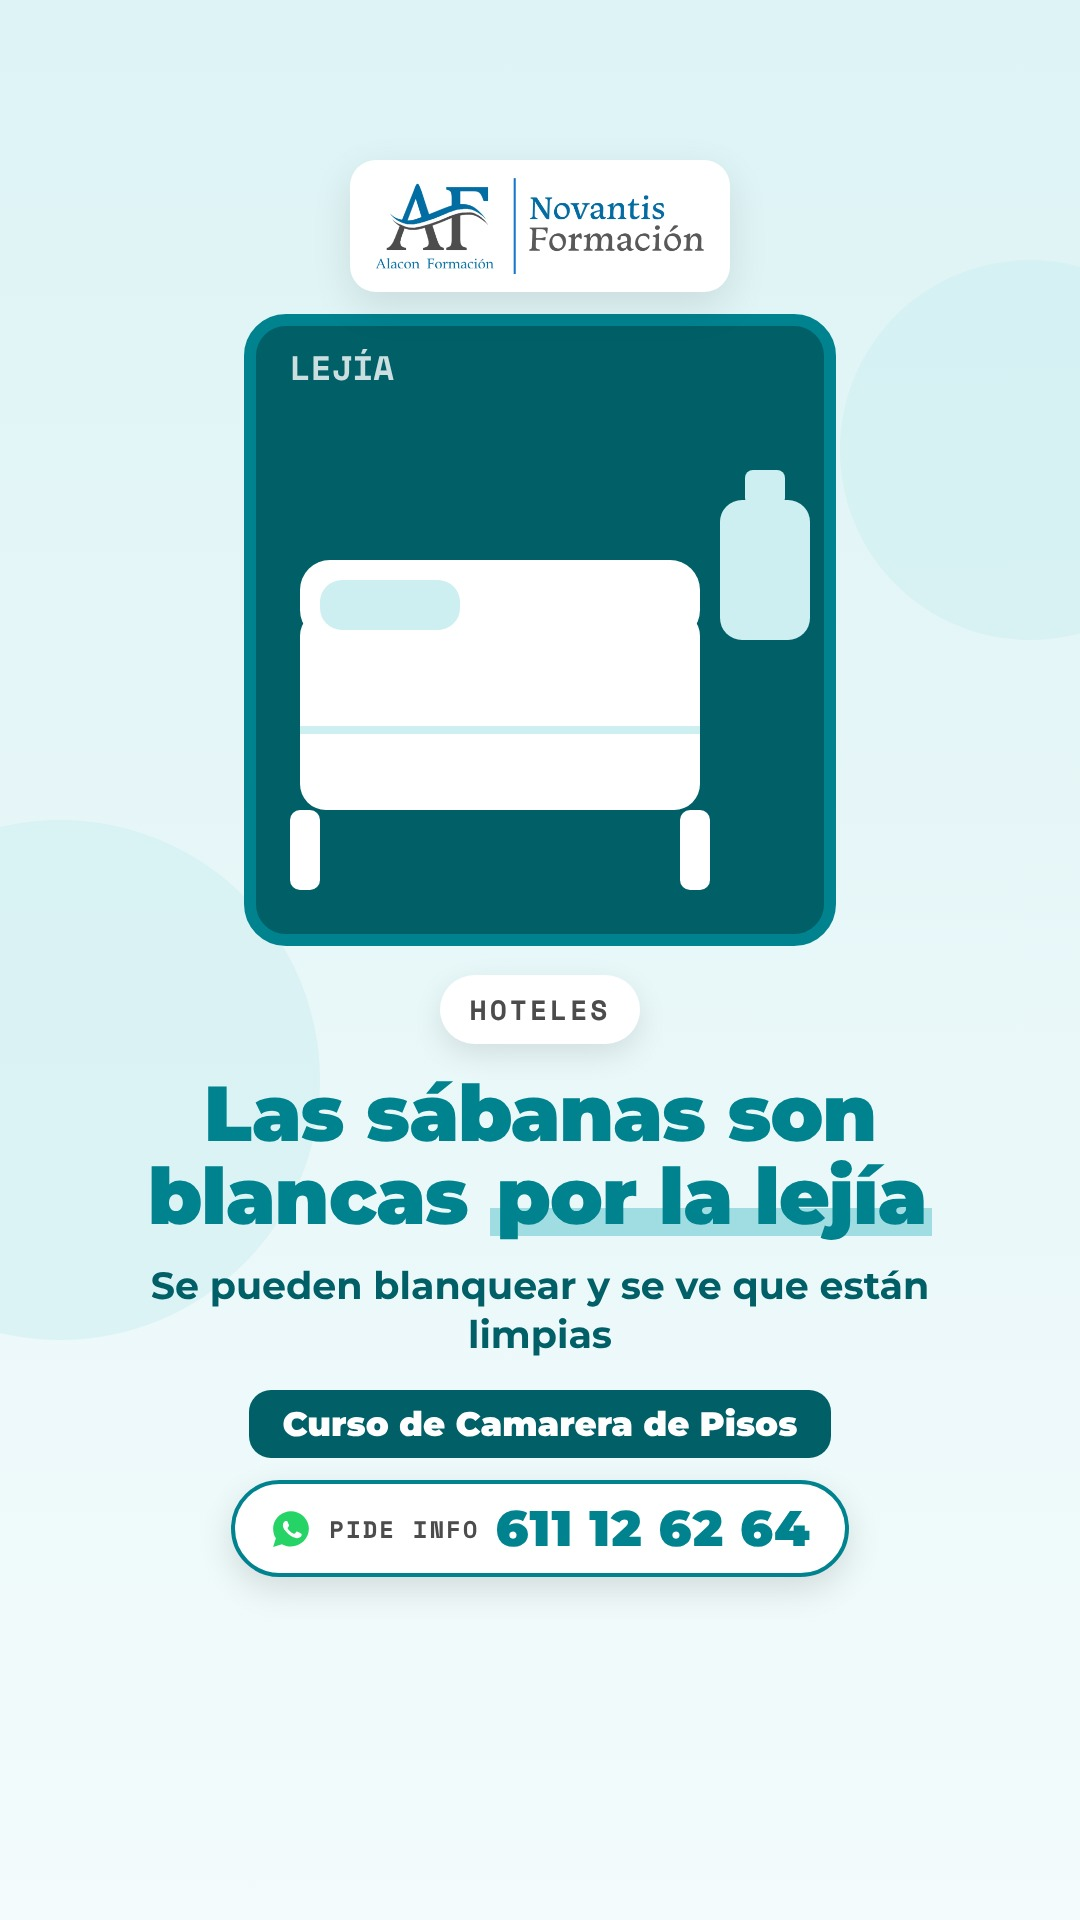
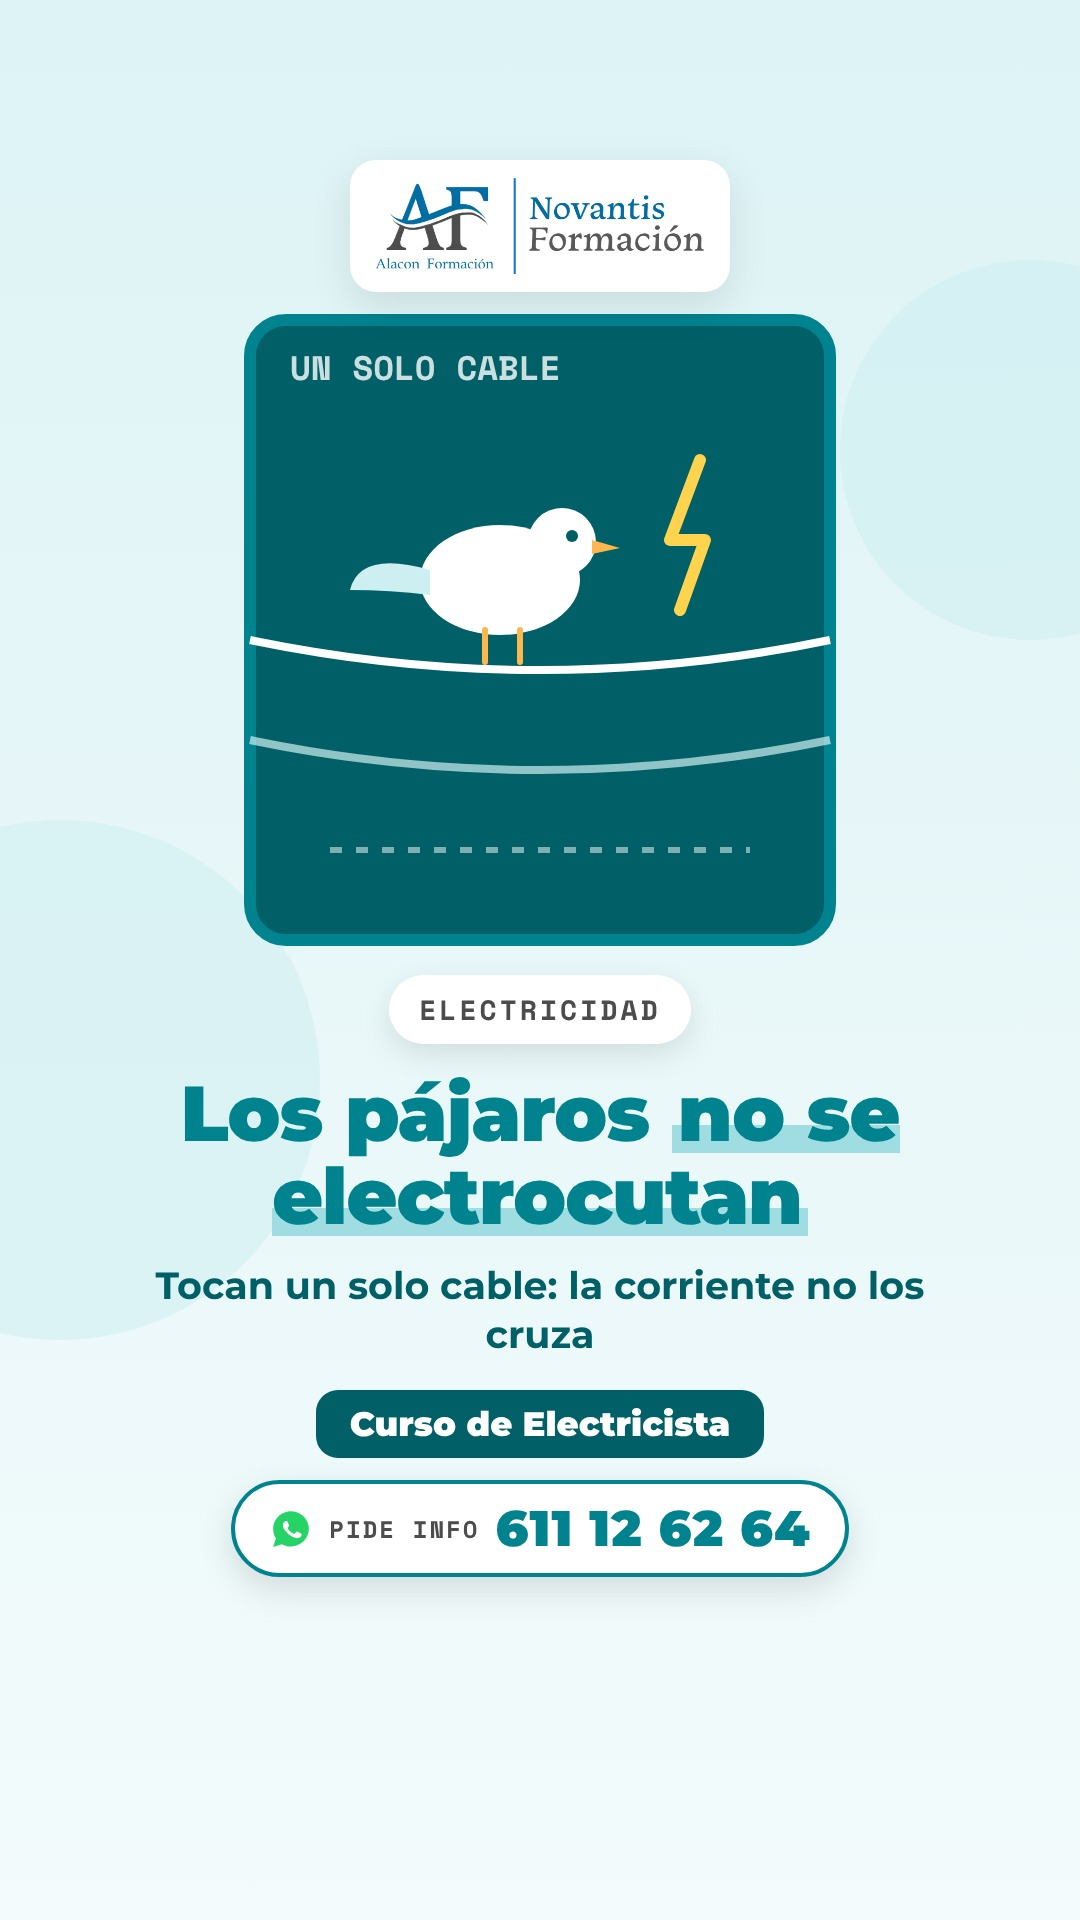
Electricidad, masaje y deporte en lugar de sábanas, conejos y silla; preferencias del usuario en ENCARGOS
Claude-Session: https://claude.ai/code/session_01SnWULSeimGG9wnx49MA5iz

diff --git a/disenos/semana-2026-11-16/2026-11-19-pajaros-cables.html b/disenos/semana-2026-11-16/2026-11-19-pajaros-cables.html
@@ -35,16 +35,18 @@ body { font-family: "Montserrat", sans-serif; color: #4C4C4C; position: relative
 <svg class="ilu" width="1080" height="640" viewBox="0 0 1080 640" aria-hidden="true"><rect x="250" y="10" width="580" height="620" rx="36" fill="#005F67"/>
 <rect x="250" y="10" width="580" height="620" rx="36" fill="none" stroke="#00838F" stroke-width="12"/>
 
-<rect x="300" y="300" width="400" height="200" rx="26" fill="#fff"/>
-<rect x="300" y="250" width="400" height="80" rx="30" fill="#fff"/>
-<rect x="320" y="270" width="140" height="50" rx="22" fill="#CDEFF1"/>
-<path d="M300 420 h400" stroke="#CDEFF1" stroke-width="8"/>
-<rect x="290" y="500" width="30" height="80" rx="10" fill="#fff"/><rect x="680" y="500" width="30" height="80" rx="10" fill="#fff"/>
-<g transform="translate(720 150)"><rect x="0" y="40" width="90" height="140" rx="22" fill="#CDEFF1"/><rect x="25" y="10" width="40" height="36" rx="8" fill="#CDEFF1"/></g>
-<text x="290" y="70" font-family="Space Mono" font-weight="700" font-size="34" fill="#fff" opacity=".8">LEJÍA</text></svg>
+<path d="M250 330 Q 540 390 830 330" stroke="#fff" stroke-width="8" fill="none"/>
+<path d="M250 430 Q 540 490 830 430" stroke="#CDEFF1" stroke-width="8" fill="none" opacity=".7"/>
+<g transform="translate(500 270)"><ellipse cx="0" cy="0" rx="80" ry="55" fill="#fff"/><circle cx="62" cy="-38" r="34" fill="#fff"/>
+<path d="M92 -40 L120 -32 L92 -26 Z" fill="#FFB74D"/><circle cx="72" cy="-44" r="6" fill="#005F67"/>
+<path d="M-70 -10 Q -140 -30 -150 10 Q -110 10 -70 15 Z" fill="#CDEFF1"/>
+<path d="M-15 50 L-15 82 M20 50 L20 82" stroke="#FFB74D" stroke-width="6" stroke-linecap="round"/></g>
+<path d="M700 150 L670 230 L705 230 L680 300" stroke="#FFD34D" stroke-width="12" fill="none" stroke-linecap="round" stroke-linejoin="round"/>
+<path d="M330 540 h420" stroke="#fff" stroke-width="6" stroke-dasharray="12 14" opacity=".5"/>
+<text x="290" y="70" font-family="Space Mono" font-weight="700" font-size="34" fill="#fff" opacity=".8">UN SOLO CABLE</text></svg>
 <div class="logo"><img src="../assets/logo-alacon-novantis.png" alt="Alacon Formación × Novantis Formación"></div>
-<div class="bloque"><div class="kicker"><span class="chip"><span>Hoteles</span></span></div>
-<div class="titular">Las sábanas son blancas <span class="marca">por la lejía</span></div>
-<div class="nota">Se pueden blanquear y se ve que están limpias</div>
-<div class="curso"><span>Curso de Camarera de Pisos</span></div><div class="wa"><svg width="44" height="44" viewBox="0 0 32 32" aria-hidden="true"><path fill="#25D366" d="M16 3C8.8 3 3 8.7 3 15.8c0 2.5.7 4.9 2 7L3 29l6.4-2c2 1.1 4.3 1.7 6.6 1.7 7.2 0 13-5.7 13-12.8S23.2 3 16 3z"/><path fill="#fff" d="M22.6 18.9c-.3-.2-1.9-.9-2.2-1-.3-.1-.5-.2-.7.2-.2.3-.8 1-1 1.2-.2.2-.4.2-.7.1-.3-.2-1.4-.5-2.6-1.6-1-.9-1.6-1.9-1.8-2.2-.2-.3 0-.5.1-.7l.5-.6c.2-.2.2-.4.3-.6.1-.2 0-.4 0-.6l-1-2.4c-.3-.6-.5-.5-.7-.5h-.6c-.2 0-.6.1-.9.4-.3.3-1.2 1.1-1.2 2.8 0 1.6 1.2 3.2 1.4 3.4.2.2 2.4 3.6 5.8 5 2.8 1.1 3.4.9 4 .8.6-.1 1.9-.8 2.2-1.5.3-.8.3-1.4.2-1.5-.1-.2-.3-.3-.6-.4z"/></svg><span>Pide info</span><b>611 12 62 64</b></div></div>
+<div class="bloque"><div class="kicker"><span class="chip"><span>Electricidad</span></span></div>
+<div class="titular">Los pájaros <span class="marca">no se electrocutan</span></div>
+<div class="nota">Tocan un solo cable: la corriente no los cruza</div>
+<div class="curso"><span>Curso de Electricista</span></div><div class="wa"><svg width="44" height="44" viewBox="0 0 32 32" aria-hidden="true"><path fill="#25D366" d="M16 3C8.8 3 3 8.7 3 15.8c0 2.5.7 4.9 2 7L3 29l6.4-2c2 1.1 4.3 1.7 6.6 1.7 7.2 0 13-5.7 13-12.8S23.2 3 16 3z"/><path fill="#fff" d="M22.6 18.9c-.3-.2-1.9-.9-2.2-1-.3-.1-.5-.2-.7.2-.2.3-.8 1-1 1.2-.2.2-.4.2-.7.1-.3-.2-1.4-.5-2.6-1.6-1-.9-1.6-1.9-1.8-2.2-.2-.3 0-.5.1-.7l.5-.6c.2-.2.2-.4.3-.6.1-.2 0-.4 0-.6l-1-2.4c-.3-.6-.5-.5-.7-.5h-.6c-.2 0-.6.1-.9.4-.3.3-1.2 1.1-1.2 2.8 0 1.6 1.2 3.2 1.4 3.4.2.2 2.4 3.6 5.8 5 2.8 1.1 3.4.9 4 .8.6-.1 1.9-.8 2.2-1.5.3-.8.3-1.4.2-1.5-.1-.2-.3-.3-.6-.4z"/></svg><span>Pide info</span><b>611 12 62 64</b></div></div>
 </body></html>

diff --git a/disenos/semana-2026-11-23/2026-11-28-musculos-descanso.html b/disenos/semana-2026-11-23/2026-11-28-musculos-descanso.html
@@ -35,17 +35,17 @@ body { font-family: "Montserrat", sans-serif; color: #4C4C4C; position: relative
 <svg class="ilu" width="1080" height="640" viewBox="0 0 1080 640" aria-hidden="true"><rect x="250" y="10" width="580" height="620" rx="36" fill="#154E63"/>
 <rect x="250" y="10" width="580" height="620" rx="36" fill="none" stroke="#1F6F8B" stroke-width="12"/>
 
-<rect x="330" y="140" width="40" height="440" rx="16" fill="#fff"/>
-<rect x="330" y="360" width="250" height="36" rx="14" fill="#fff"/>
-<rect x="540" y="390" width="36" height="190" rx="14" fill="#fff"/>
-<rect x="330" y="160" width="40" height="160" rx="16" fill="#D2E7EF"/>
-<path d="M650 330 L420 260" stroke="#D2E7EF" stroke-width="22" stroke-linecap="round"/>
-<path d="M410 240 L380 255 L420 290 Z" fill="#D2E7EF"/>
-<path d="M700 420 L700 260" stroke="#fff" stroke-width="14" stroke-linecap="round"/><path d="M680 270 L700 230 L720 270 Z" fill="#fff"/>
-<text x="290" y="70" font-family="Space Mono" font-weight="700" font-size="34" fill="#fff" opacity=".8">SI ESTÁS SOLO</text></svg>
+<rect x="330" y="330" width="420" height="30" rx="15" fill="#fff"/>
+<rect x="340" y="250" width="50" height="190" rx="14" fill="#fff"/><rect x="400" y="275" width="40" height="140" rx="12" fill="#D2E7EF"/>
+<rect x="690" y="250" width="50" height="190" rx="14" fill="#fff"/><rect x="640" y="275" width="40" height="140" rx="12" fill="#D2E7EF"/>
+<path d="M700 130 a 60 60 0 1 0 60 80 a 48 48 0 1 1 -60 -80 Z" fill="#FFD34D"/>
+<text x="400" y="190" font-family="Montserrat" font-weight="900" font-size="60" fill="#fff" opacity=".85">z</text>
+<text x="440" y="150" font-family="Montserrat" font-weight="900" font-size="44" fill="#fff" opacity=".6">z</text>
+<path d="M360 530 h360" stroke="#fff" stroke-width="6" stroke-linecap="round" opacity=".4"/>
+<text x="290" y="70" font-family="Space Mono" font-weight="700" font-size="34" fill="#fff" opacity=".8">RECUPERACIÓN</text></svg>
 <div class="logo"><img src="../assets/logo-alacon-novantis.png" alt="Alacon Formación × Novantis Formación"></div>
-<div class="bloque"><div class="kicker"><span class="chip"><span>Atragantamiento</span></span></div>
-<div class="titular">¿Te atragantas solo? <span class="marca">Usa una silla</span></div>
-<div class="nota">Empuja el abdomen contra el respaldo, fuerte y hacia arriba</div>
-<div class="curso"><span>Formación en Emergencias Sanitarias</span></div><div class="wa"><svg width="44" height="44" viewBox="0 0 32 32" aria-hidden="true"><path fill="#25D366" d="M16 3C8.8 3 3 8.7 3 15.8c0 2.5.7 4.9 2 7L3 29l6.4-2c2 1.1 4.3 1.7 6.6 1.7 7.2 0 13-5.7 13-12.8S23.2 3 16 3z"/><path fill="#fff" d="M22.6 18.9c-.3-.2-1.9-.9-2.2-1-.3-.1-.5-.2-.7.2-.2.3-.8 1-1 1.2-.2.2-.4.2-.7.1-.3-.2-1.4-.5-2.6-1.6-1-.9-1.6-1.9-1.8-2.2-.2-.3 0-.5.1-.7l.5-.6c.2-.2.2-.4.3-.6.1-.2 0-.4 0-.6l-1-2.4c-.3-.6-.5-.5-.7-.5h-.6c-.2 0-.6.1-.9.4-.3.3-1.2 1.1-1.2 2.8 0 1.6 1.2 3.2 1.4 3.4.2.2 2.4 3.6 5.8 5 2.8 1.1 3.4.9 4 .8.6-.1 1.9-.8 2.2-1.5.3-.8.3-1.4.2-1.5-.1-.2-.3-.3-.6-.4z"/></svg><span>Pide info</span><b>611 12 62 64</b></div></div>
+<div class="bloque"><div class="kicker"><span class="chip"><span>Deporte</span></span></div>
+<div class="titular">Los músculos crecen <span class="marca">cuando descansas</span></div>
+<div class="nota">Al entrenar se rompen fibras; al descansar se reparan</div>
+<div class="curso"><span>Curso de Monitor Deportivo</span></div><div class="wa"><svg width="44" height="44" viewBox="0 0 32 32" aria-hidden="true"><path fill="#25D366" d="M16 3C8.8 3 3 8.7 3 15.8c0 2.5.7 4.9 2 7L3 29l6.4-2c2 1.1 4.3 1.7 6.6 1.7 7.2 0 13-5.7 13-12.8S23.2 3 16 3z"/><path fill="#fff" d="M22.6 18.9c-.3-.2-1.9-.9-2.2-1-.3-.1-.5-.2-.7.2-.2.3-.8 1-1 1.2-.2.2-.4.2-.7.1-.3-.2-1.4-.5-2.6-1.6-1-.9-1.6-1.9-1.8-2.2-.2-.3 0-.5.1-.7l.5-.6c.2-.2.2-.4.3-.6.1-.2 0-.4 0-.6l-1-2.4c-.3-.6-.5-.5-.7-.5h-.6c-.2 0-.6.1-.9.4-.3.3-1.2 1.1-1.2 2.8 0 1.6 1.2 3.2 1.4 3.4.2.2 2.4 3.6 5.8 5 2.8 1.1 3.4.9 4 .8.6-.1 1.9-.8 2.2-1.5.3-.8.3-1.4.2-1.5-.1-.2-.3-.3-.6-.4z"/></svg><span>Pide info</span><b>611 12 62 64</b></div></div>
 </body></html>

diff --git a/disenos/semana-2026-11-16/2026-11-21-masaje-cortisol.html b/disenos/semana-2026-11-16/2026-11-21-masaje-cortisol.html
@@ -35,18 +35,15 @@ body { font-family: "Montserrat", sans-serif; color: #4C4C4C; position: relative
 <svg class="ilu" width="1080" height="640" viewBox="0 0 1080 640" aria-hidden="true"><rect x="250" y="10" width="580" height="620" rx="36" fill="#283593"/>
 <rect x="250" y="10" width="580" height="620" rx="36" fill="none" stroke="#3949AB" stroke-width="12"/>
 
-<ellipse cx="470" cy="210" rx="45" ry="140" fill="#fff" transform="rotate(-10 470 210)"/>
-<ellipse cx="610" cy="210" rx="45" ry="140" fill="#fff" transform="rotate(10 610 210)"/>
-<ellipse cx="470" cy="210" rx="20" ry="100" fill="#F4B6C2" transform="rotate(-10 470 210)"/>
-<ellipse cx="610" cy="210" rx="20" ry="100" fill="#F4B6C2" transform="rotate(10 610 210)"/>
-<ellipse cx="540" cy="440" rx="190" ry="160" fill="#fff"/>
-<circle cx="470" cy="420" r="20" fill="#283593"/><circle cx="610" cy="420" r="20" fill="#283593"/>
-<path d="M525 470 L555 470 L540 488 Z" fill="#F4B6C2"/>
-<path d="M540 488 L540 510 M540 510 Q 520 530 505 515 M540 510 Q 560 530 575 515" stroke="#283593" stroke-width="5" fill="none" stroke-linecap="round"/>
-<text x="290" y="70" font-family="Space Mono" font-weight="700" font-size="34" fill="#fff" opacity=".8">NO VOMITAN</text></svg>
+<path d="M380 600 Q 370 380 450 300 Q 540 250 630 300 Q 710 380 700 600 Z" fill="#fff"/>
+<circle cx="540" cy="200" r="70" fill="#fff"/>
+<path d="M440 420 a 40 40 0 1 1 60 30 M580 420 a 40 40 0 1 1 60 30" fill="none" stroke="#3949AB" stroke-width="10" stroke-linecap="round"/>
+<path d="M495 455 l10 -18 l-22 -2 Z M635 455 l10 -18 l-22 -2 Z" fill="#3949AB"/>
+<path d="M760 180 v260" stroke="#D9DDF5" stroke-width="16" stroke-linecap="round"/><path d="M730 410 L760 460 L790 410 Z" fill="#D9DDF5"/>
+<text x="290" y="70" font-family="Space Mono" font-weight="700" font-size="34" fill="#fff" opacity=".8">CORTISOL ↓</text></svg>
 <div class="logo"><img src="../assets/logo-alacon-novantis.png" alt="Alacon Formación × Novantis Formación"></div>
-<div class="bloque"><div class="kicker"><span class="chip"><span>Conejos</span></span></div>
-<div class="titular">Los conejos <span class="marca">no pueden vomitar</span></div>
-<div class="nota">Si comen algo malo, no lo pueden expulsar</div>
-<div class="curso"><span>Curso de Auxiliar de Veterinaria</span></div><div class="wa"><svg width="44" height="44" viewBox="0 0 32 32" aria-hidden="true"><path fill="#25D366" d="M16 3C8.8 3 3 8.7 3 15.8c0 2.5.7 4.9 2 7L3 29l6.4-2c2 1.1 4.3 1.7 6.6 1.7 7.2 0 13-5.7 13-12.8S23.2 3 16 3z"/><path fill="#fff" d="M22.6 18.9c-.3-.2-1.9-.9-2.2-1-.3-.1-.5-.2-.7.2-.2.3-.8 1-1 1.2-.2.2-.4.2-.7.1-.3-.2-1.4-.5-2.6-1.6-1-.9-1.6-1.9-1.8-2.2-.2-.3 0-.5.1-.7l.5-.6c.2-.2.2-.4.3-.6.1-.2 0-.4 0-.6l-1-2.4c-.3-.6-.5-.5-.7-.5h-.6c-.2 0-.6.1-.9.4-.3.3-1.2 1.1-1.2 2.8 0 1.6 1.2 3.2 1.4 3.4.2.2 2.4 3.6 5.8 5 2.8 1.1 3.4.9 4 .8.6-.1 1.9-.8 2.2-1.5.3-.8.3-1.4.2-1.5-.1-.2-.3-.3-.6-.4z"/></svg><span>Pide info</span><b>611 12 62 64</b></div></div>
+<div class="bloque"><div class="kicker"><span class="chip"><span>Masaje</span></span></div>
+<div class="titular">Un masaje baja <span class="marca">la hormona del estrés</span></div>
+<div class="nota">Reduce el cortisol y sube la serotonina</div>
+<div class="curso"><span>Curso de Quiromasaje</span></div><div class="wa"><svg width="44" height="44" viewBox="0 0 32 32" aria-hidden="true"><path fill="#25D366" d="M16 3C8.8 3 3 8.7 3 15.8c0 2.5.7 4.9 2 7L3 29l6.4-2c2 1.1 4.3 1.7 6.6 1.7 7.2 0 13-5.7 13-12.8S23.2 3 16 3z"/><path fill="#fff" d="M22.6 18.9c-.3-.2-1.9-.9-2.2-1-.3-.1-.5-.2-.7.2-.2.3-.8 1-1 1.2-.2.2-.4.2-.7.1-.3-.2-1.4-.5-2.6-1.6-1-.9-1.6-1.9-1.8-2.2-.2-.3 0-.5.1-.7l.5-.6c.2-.2.2-.4.3-.6.1-.2 0-.4 0-.6l-1-2.4c-.3-.6-.5-.5-.7-.5h-.6c-.2 0-.6.1-.9.4-.3.3-1.2 1.1-1.2 2.8 0 1.6 1.2 3.2 1.4 3.4.2.2 2.4 3.6 5.8 5 2.8 1.1 3.4.9 4 .8.6-.1 1.9-.8 2.2-1.5.3-.8.3-1.4.2-1.5-.1-.2-.3-.3-.6-.4z"/></svg><span>Pide info</span><b>611 12 62 64</b></div></div>
 </body></html>

diff --git a/herramientas/historia_color.py b/herramientas/historia_color.py
@@ -328,6 +328,36 @@ def ilu_pastilla(P, D, L):
 <circle cx="540" cy="330" r="230" fill="none" stroke="#D7362B" stroke-width="18"/>
 <line x1="380" y1="490" x2="700" y2="170" stroke="#D7362B" stroke-width="18" stroke-linecap="round"/>""")
 
+
+def ilu_pajaro(P, D, L):
+    return ficha(P, D, "UN SOLO CABLE", f"""
+<path d="M250 330 Q 540 390 830 330" stroke="#fff" stroke-width="8" fill="none"/>
+<path d="M250 430 Q 540 490 830 430" stroke="{L}" stroke-width="8" fill="none" opacity=".7"/>
+<g transform="translate(500 270)"><ellipse cx="0" cy="0" rx="80" ry="55" fill="#fff"/><circle cx="62" cy="-38" r="34" fill="#fff"/>
+<path d="M92 -40 L120 -32 L92 -26 Z" fill="#FFB74D"/><circle cx="72" cy="-44" r="6" fill="{D}"/>
+<path d="M-70 -10 Q -140 -30 -150 10 Q -110 10 -70 15 Z" fill="{L}"/>
+<path d="M-15 50 L-15 82 M20 50 L20 82" stroke="#FFB74D" stroke-width="6" stroke-linecap="round"/></g>
+<path d="M700 150 L670 230 L705 230 L680 300" stroke="#FFD34D" stroke-width="12" fill="none" stroke-linecap="round" stroke-linejoin="round"/>
+<path d="M330 540 h420" stroke="#fff" stroke-width="6" stroke-dasharray="12 14" opacity=".5"/>""")
+
+def ilu_masaje(P, D, L):
+    return ficha(P, D, "CORTISOL ↓", f"""
+<path d="M380 600 Q 370 380 450 300 Q 540 250 630 300 Q 710 380 700 600 Z" fill="#fff"/>
+<circle cx="540" cy="200" r="70" fill="#fff"/>
+<path d="M440 420 a 40 40 0 1 1 60 30 M580 420 a 40 40 0 1 1 60 30" fill="none" stroke="{P}" stroke-width="10" stroke-linecap="round"/>
+<path d="M495 455 l10 -18 l-22 -2 Z M635 455 l10 -18 l-22 -2 Z" fill="{P}"/>
+<path d="M760 180 v260" stroke="{L}" stroke-width="16" stroke-linecap="round"/><path d="M730 410 L760 460 L790 410 Z" fill="{L}"/>""")
+
+def ilu_pesas(P, D, L):
+    return ficha(P, D, "RECUPERACIÓN", f"""
+<rect x="330" y="330" width="420" height="30" rx="15" fill="#fff"/>
+<rect x="340" y="250" width="50" height="190" rx="14" fill="#fff"/><rect x="400" y="275" width="40" height="140" rx="12" fill="{L}"/>
+<rect x="690" y="250" width="50" height="190" rx="14" fill="#fff"/><rect x="640" y="275" width="40" height="140" rx="12" fill="{L}"/>
+<path d="M700 130 a 60 60 0 1 0 60 80 a 48 48 0 1 1 -60 -80 Z" fill="#FFD34D"/>
+<text x="400" y="190" font-family="Montserrat" font-weight="900" font-size="60" fill="#fff" opacity=".85">z</text>
+<text x="440" y="150" font-family="Montserrat" font-weight="900" font-size="44" fill="#fff" opacity=".6">z</text>
+<path d="M360 530 h360" stroke="#fff" stroke-width="6" stroke-linecap="round" opacity=".4"/>""")
+
 HISTORIAS = [
     dict(fecha="2026-11-04", tema="tension", paleta="violeta", ilu=ilu_tension,
          kicker="Tensión arterial", titular='Cruzar las piernas te <span class="marca">sube la tensión</span>',
@@ -384,15 +414,15 @@ SEMANA_3 = [
     dict(fecha="2026-11-18", tema="penicilina", paleta="salvia", ilu=ilu_placa,
          kicker="Día Europeo de los Antibióticos", titular='La penicilina nació <span class="marca">de un descuido</span>',
          nota="Fleming dejó unas placas sin limpiar en 1928", curso="Curso de Auxiliar de Enfermería"),
-    dict(fecha="2026-11-19", tema="sabanas-blancas", paleta="oceano", ilu=ilu_sabanas,
-         kicker="Hoteles", titular='Las sábanas son blancas <span class="marca">por la lejía</span>',
-         nota="Se pueden blanquear y se ve que están limpias", curso="Curso de Camarera de Pisos"),
+    dict(fecha="2026-11-19", tema="pajaros-cables", paleta="oceano", ilu=ilu_pajaro,
+         kicker="Electricidad", titular='Los pájaros <span class="marca">no se electrocutan</span>',
+         nota="Tocan un solo cable: la corriente no los cruza", curso="Curso de Electricista"),
     dict(fecha="2026-11-20", tema="huesos-bebe", paleta="marca", ilu=ilu_huesos,
          kicker="Día Universal del Niño", titular='Un bebé nace con <span class="marca">unos 300 huesos</span>',
          nota="Al crecer se fusionan hasta quedar 206", curso="Curso de Auxiliar de Enfermería"),
-    dict(fecha="2026-11-21", tema="conejos", paleta="indigo", ilu=ilu_conejo,
-         kicker="Conejos", titular='Los conejos <span class="marca">no pueden vomitar</span>',
-         nota="Si comen algo malo, no lo pueden expulsar", curso="Curso de Auxiliar de Veterinaria"),
+    dict(fecha="2026-11-21", tema="masaje-cortisol", paleta="indigo", ilu=ilu_masaje,
+         kicker="Masaje", titular='Un masaje baja <span class="marca">la hormona del estrés</span>',
+         nota="Reduce el cortisol y sube la serotonina", curso="Curso de Quiromasaje"),
     dict(fecha="2026-11-22", tema="ahogamiento", paleta="petroleo", ilu=ilu_ahogo,
          kicker="Socorrismo", titular='Quien se ahoga <span class="marca">no grita ni pide ayuda</span>',
          nota="No puede: lucha por respirar en silencio", curso="Curso de Socorrista"),
@@ -414,9 +444,9 @@ SEMANA_4 = [
     dict(fecha="2026-11-27", tema="black-friday", paleta="noche", ilu=ilu_tablet,
          kicker="Black Friday", titular='Matricúlate y <span class="marca">llévate una tablet</span>',
          nota="Tablet Samsung de regalo en noviembre", curso="Alacon Formación × Novantis Formación"),
-    dict(fecha="2026-11-28", tema="atragantamiento", paleta="petroleo", ilu=ilu_silla,
-         kicker="Atragantamiento", titular='¿Te atragantas solo? <span class="marca">Usa una silla</span>',
-         nota="Empuja el abdomen contra el respaldo, fuerte y hacia arriba", curso="Formación en Emergencias Sanitarias"),
+    dict(fecha="2026-11-28", tema="musculos-descanso", paleta="petroleo", ilu=ilu_pesas,
+         kicker="Deporte", titular='Los músculos crecen <span class="marca">cuando descansas</span>',
+         nota="Al entrenar se rompen fibras; al descansar se reparan", curso="Curso de Monitor Deportivo"),
     dict(fecha="2026-11-29", tema="latidos", paleta="ciruela", ilu=ilu_corazon,
          kicker="Corazón", titular='Tu corazón late <span class="marca">100.000 veces al día</span>',
          nota="Unos 2.500 millones de latidos en una vida", curso="Curso de Auxiliar de Enfermería"),

diff --git a/ENCARGOS.md b/ENCARGOS.md
@@ -120,6 +120,25 @@ explícalo en el resumen final. Otros encargos aprobados (textos, dossieres…) 
   y `page.screenshot({type:'jpeg', quality:90})`. Comprueba que pesa menos de 1,8 MB.
 - Los vídeos no se pueden montar en la nube: entrega el guion y di que el vídeo se monta en el Mac.
 
+## Lo que le gusta al usuario (noviembre de 2026)
+
+- **Datos curiosos, no consejos.** La historia que más le gustó: «La 1.ª radiografía: una mano con anillo» (Röntgen,
+  8-nov-1895). Busca datos sorprendentes, históricos o curiosos con su porqué. Rechazó por obvias: medir la tensión,
+  cambios de postura cada 2 horas, «no metas nada en la boca en una convulsión», «si el mar se retira, sube a zona alta».
+- **Estilo «ficha»:** ilustración SVG dentro de una placa oscura con una etiqueta pequeña en Space Mono arriba a la izquierda
+  (como la radiografía). Generador: `herramientas/historia_color.py`.
+- **Colores variados:** misma maqueta, pero cambia la paleta cada día (violeta, océano, salvia, noche, marca, índigo,
+  petróleo, ciruela). Rojo y amarillo solo en iconos de peligro o detalles de la ilustración.
+- **Curso siempre abajo**, en una etiqueta justo encima del WhatsApp.
+- **Variedad de cursos:** no solo veterinaria y enfermería. Usa también electricidad («Curso de Electricista»), masaje
+  («Curso de Quiromasaje»), deporte («Curso de Monitor Deportivo»), hostelería, socorrismo, climatización, sociosanitario.
+  Los nombres de electricidad, masaje y deporte son genéricos aprobados por el usuario mientras no haya uno oficial.
+- **Solo historias.** No hacer posts salvo que los pida.
+- Fechas de luto o temas delicados (25N): sin curso ni WhatsApp.
+- Se le enseñan todas las imágenes de la semana (o del mes) juntas y él aprueba; luego se programan a las 9:00 en las dos marcas.
+- Metricool coge las imágenes desde `https://raw.githubusercontent.com/KODDITA/instagram-alacon/<rama>/contenido/AAAA-MM-DD/historia.jpg`
+  (sirve cualquier rama subida; no hace falta tocar `main`).
+
 ## Al terminar la vuelta
 
 Resume en pocas líneas qué encargos has entregado o terminado y qué ha fallado.
